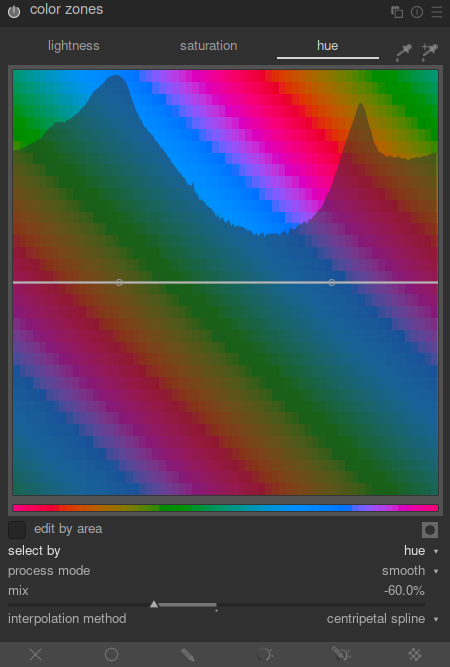
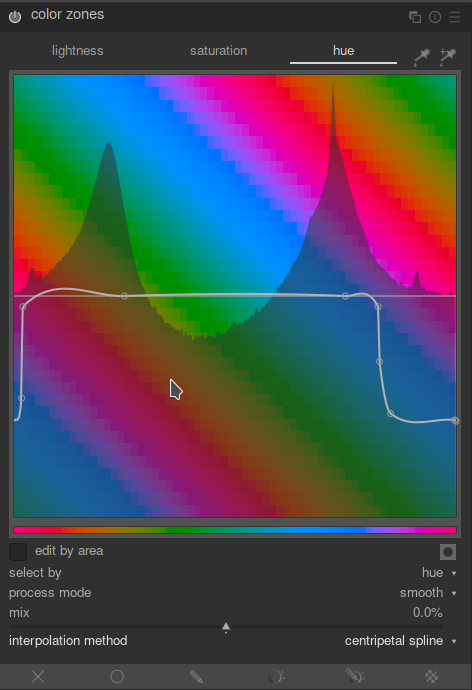
color-zones: update adjustment curve with examples, add eyedropper heading

diff --git a/content/module-reference/processing-modules/color-zones.md b/content/module-reference/processing-modules/color-zones.md
@@ -33,24 +33,30 @@ select by saturation mode
 Once you've chosen a pixel selection mode from the previous section, it will appear along the horizonal axis of the pixel manipulation cures. There are three tabs, each with their own curve for manipulating either the hue, lightness or saturation. Let's say you chose a selection criterion of _hue_. Then, the three curves would look like:
 
 adjust lightness
-: By adjusting the curve up or down in certain places, you can brighten or darken pixels matching hues where the curve has been raised or lowered. 
+: By adjusting the curve up or down in certain places, you can brighten or darken pixels matching hues where the curve has been raised or lowered. In the example below the blue sky in an image has been darkened for more dramatic effect:
 : ![color zones adjust lightness](./color-zones/color-zones-adjust-lightness.png)
 
 adjust saturation
-: By adjusting the curve up or down in certain places, you can desaturate (make more monochrome) or saturate (make more colorful) pixels matching hues where the curve has been raised or lowered. 
+: By adjusting the curve up or down in certain places, you can desaturate (make more monochrome) or saturate (make more colorful) pixels matching hues where the curve has been raised or lowered. In the example below, a red object in the background has been desaturated so it is less of a distraction to the main subject of the photo:
 : ![color zones adjust saturation](./color-zones/color-zones-adjust-saturation.png)
 
 adjust hue
-: By adjusting the curve up or down in certain places, you can shift the hue of pixels matching hues where the curve has been raised or lowered, allowing you to replace one color with another. 
+: By adjusting the curve up or down in certain places, you can shift the hue of pixels matching hues where the curve has been raised or lowered, allowing you to replace one color with another. In the example below, a pink toy in an image has been changed to blue:
 : ![color zones adjust hue](./color-zones/color-zones-adjust-hue.png)
 
 The curves work similarly in the lightness-based and saturation-based selection modes as well. See the section on [curves](../../darkroom/interacting-with-modules/curves.md) to see how spline curves work in general.
 
-You can `Click` the left eyedropper just above the curve and then choose  pixel in the image to see a dark vertical line where that pixel falls on the horizontal axis.
+# Pixel selection
+
+When adjusting the curves as in the previous section, sometimes it can be difficult to judge exactly where on the horizontal axis certain pixels will fall. Just above the curve are some eye droppers that can be used to help identify where along the horizontal axis you should make your adjustments, and they can even set up some initial control points for you to help with making your adjustments.
+
+If you `Click` the left eyedropper just above the curve and then choose pixel in the image, you will see a dark vertical line showing where that pixel falls on the horizontal axis.
 
 If you `Click` on the right eyedropped above the curve, then you can `Drag` out a region of pixels on the image preview, and you'll see a white highlight on the curve showing a range on the horizontal axis which covers all pixels falling within the dragged-out region in the image. There will also be some control points placed on the curve and the start, median and end of that highlighted range on the horizontal axis, which can be convenient to allow you to push up or pull down the curve within that selected range. If you use a `Ctrl+Drag` to select a region in the preview image, the corresponding range of pixels on the horizontal axis will be highlighted like before, and the curve will be automatically pushed up a bit for you. You can then fine-tune how far you want the curve pushed up. If you `Shift+Drag` to select a region in the preview image, the same thing will happen except that the curve will automatically be pushed down  in the selected range.
 
 ![color zones overview](./color-zones/color-zones-overview.png)
+
+Note that you can also use masks with this module if needed, to help target even more precisely which parts of the image you do or do not want to affect.
 
 # module controls
 
